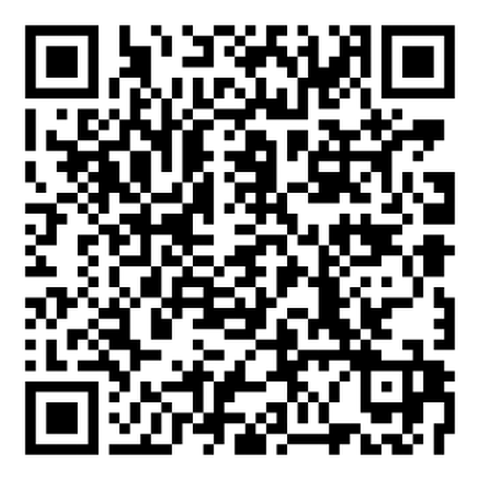
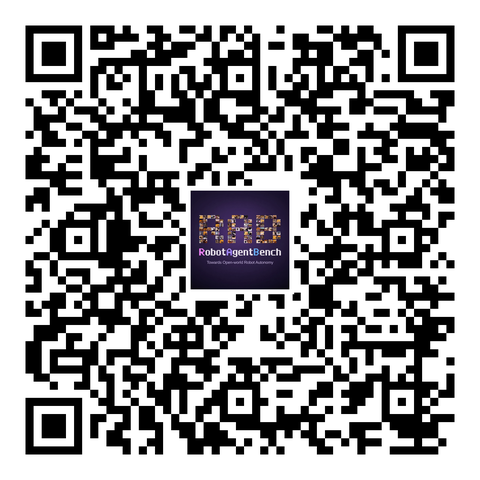
Use the branded Slack QR code

diff --git a/index.html b/index.html
@@ -434,7 +434,7 @@
           <figcaption><svg viewBox="0 0 24 24"><path d="M8.691 2.188C3.891 2.188 0 5.476 0 9.53c0 2.212 1.17 4.203 3.002 5.55a.59.59 0 0 1 .213.665l-.39 1.48c-.019.07-.048.141-.048.213 0 .163.13.295.29.295a.326.326 0 0 0 .167-.054l1.903-1.114a.864.864 0 0 1 .717-.098 10.16 10.16 0 0 0 2.837.403c.276 0 .543-.027.811-.05-.857-2.578.157-4.972 1.932-6.446 1.703-1.415 3.882-1.98 5.853-1.838-.576-3.583-4.196-6.348-8.596-6.348zM5.785 5.991c.642 0 1.162.529 1.162 1.18a1.17 1.17 0 0 1-1.162 1.178A1.17 1.17 0 0 1 4.623 7.17c0-.651.52-1.18 1.162-1.18zm5.813 0c.642 0 1.162.529 1.162 1.18a1.17 1.17 0 0 1-1.162 1.178 1.17 1.17 0 0 1-1.162-1.178c0-.651.52-1.18 1.162-1.18zm5.34 2.867c-1.797-.052-3.746.512-5.28 1.786-1.72 1.428-2.687 3.72-1.78 6.22.942 2.453 3.666 4.229 6.884 4.229.826 0 1.622-.12 2.361-.336a.722.722 0 0 1 .598.082l1.584.926a.272.272 0 0 0 .14.047c.134 0 .24-.111.24-.247 0-.06-.023-.12-.038-.177l-.327-1.233a.582.582 0 0 1-.023-.156.49.49 0 0 1 .201-.398C23.024 18.48 24 16.82 24 14.98c0-3.21-2.931-5.837-6.656-6.088V8.89c-.135-.01-.27-.027-.407-.03zm-2.53 3.274c.535 0 .969.44.969.982a.976.976 0 0 1-.969.983.976.976 0 0 1-.969-.983c0-.542.434-.982.97-.982zm4.844 0c.535 0 .969.44.969.982a.976.976 0 0 1-.969.983.976.976 0 0 1-.969-.983c0-.542.434-.982.969-.982z" fill="currentColor"/></svg>WeChat</figcaption>
         </figure>
         <a class="qr-card" href="https://join.slack.com/t/robot-hmv5305/shared_invite/zt-4ee4vo9ip-7AwiBh1QDUKleoiIt87BnA" target="_blank" rel="noopener">
-          <img src="assets/img/slack-qr.png?v=1" alt="Slack invite QR code" width="480" height="480" loading="lazy">
+          <img src="assets/img/slack-qr.png?v=2" alt="Slack invite QR code" width="480" height="480" loading="lazy">
           <span class="qr-cap"><svg viewBox="0 0 24 24"><path fill="currentColor" d="M5.042 15.165a2.528 2.528 0 0 1-2.52 2.523A2.528 2.528 0 0 1 0 15.165a2.527 2.527 0 0 1 2.522-2.52h2.52v2.52zm1.271 0a2.527 2.527 0 0 1 2.521-2.52 2.527 2.527 0 0 1 2.521 2.52v6.313A2.528 2.528 0 0 1 8.834 24a2.528 2.528 0 0 1-2.521-2.522v-6.313zM8.834 5.042a2.528 2.528 0 0 1-2.521-2.52A2.528 2.528 0 0 1 8.834 0a2.528 2.528 0 0 1 2.521 2.522v2.52H8.834zm0 1.271a2.528 2.528 0 0 1 2.521 2.521 2.528 2.528 0 0 1-2.521 2.521H2.522A2.528 2.528 0 0 1 0 8.834a2.528 2.528 0 0 1 2.522-2.521h6.312zm10.122 2.521a2.528 2.528 0 0 1 2.522-2.521A2.528 2.528 0 0 1 24 8.834a2.528 2.528 0 0 1-2.522 2.521h-2.522V8.834zm-1.268 0a2.528 2.528 0 0 1-2.523 2.521 2.527 2.527 0 0 1-2.52-2.521V2.522A2.527 2.527 0 0 1 15.165 0a2.528 2.528 0 0 1 2.523 2.522v6.312zm-2.523 10.122a2.528 2.528 0 0 1 2.523 2.522A2.528 2.528 0 0 1 15.165 24a2.527 2.527 0 0 1-2.52-2.522v-2.522h2.52zm0-1.268a2.527 2.527 0 0 1-2.52-2.523 2.526 2.526 0 0 1 2.52-2.52h6.313A2.527 2.527 0 0 1 24 15.165a2.528 2.528 0 0 1-2.522 2.523h-6.313z"/></svg>Slack</span>
         </a>
         <a class="qr-card" href="https://discord.gg/hgNmXUFMU" target="_blank" rel="noopener">
